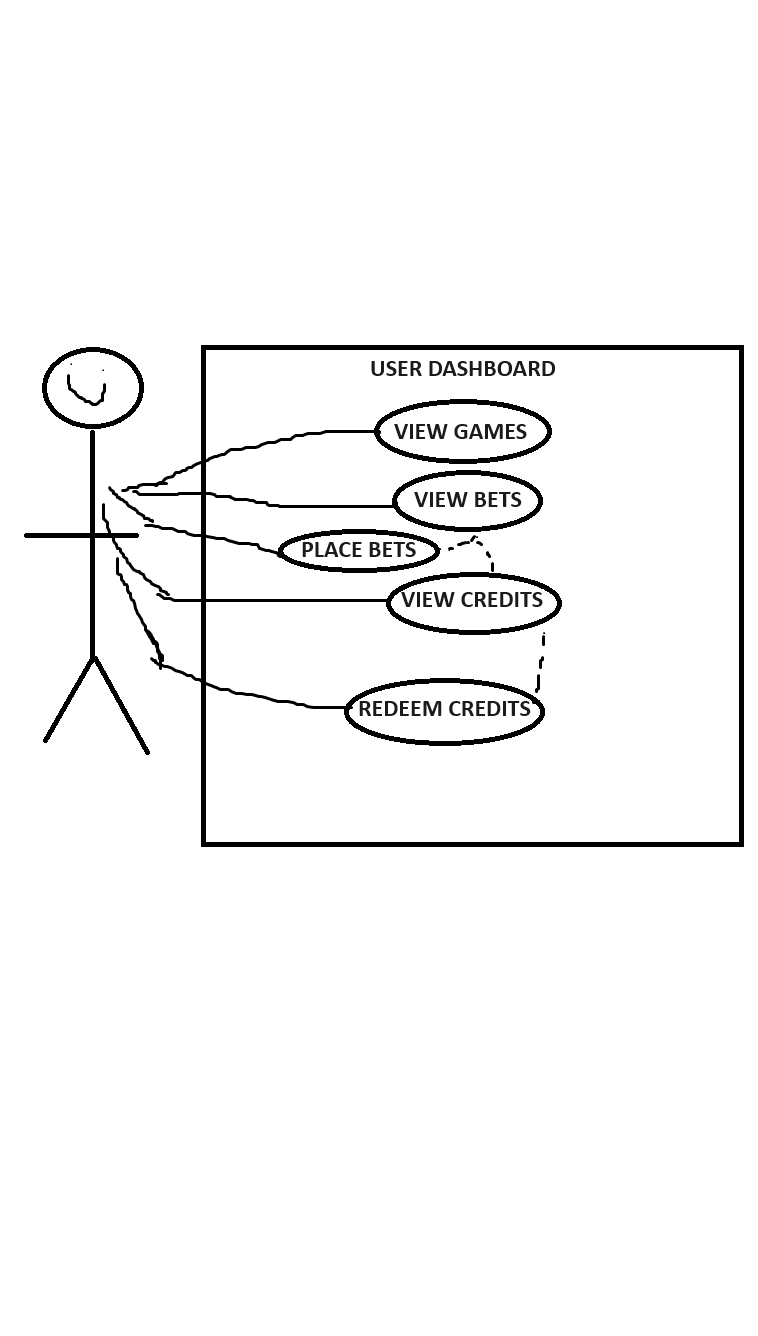
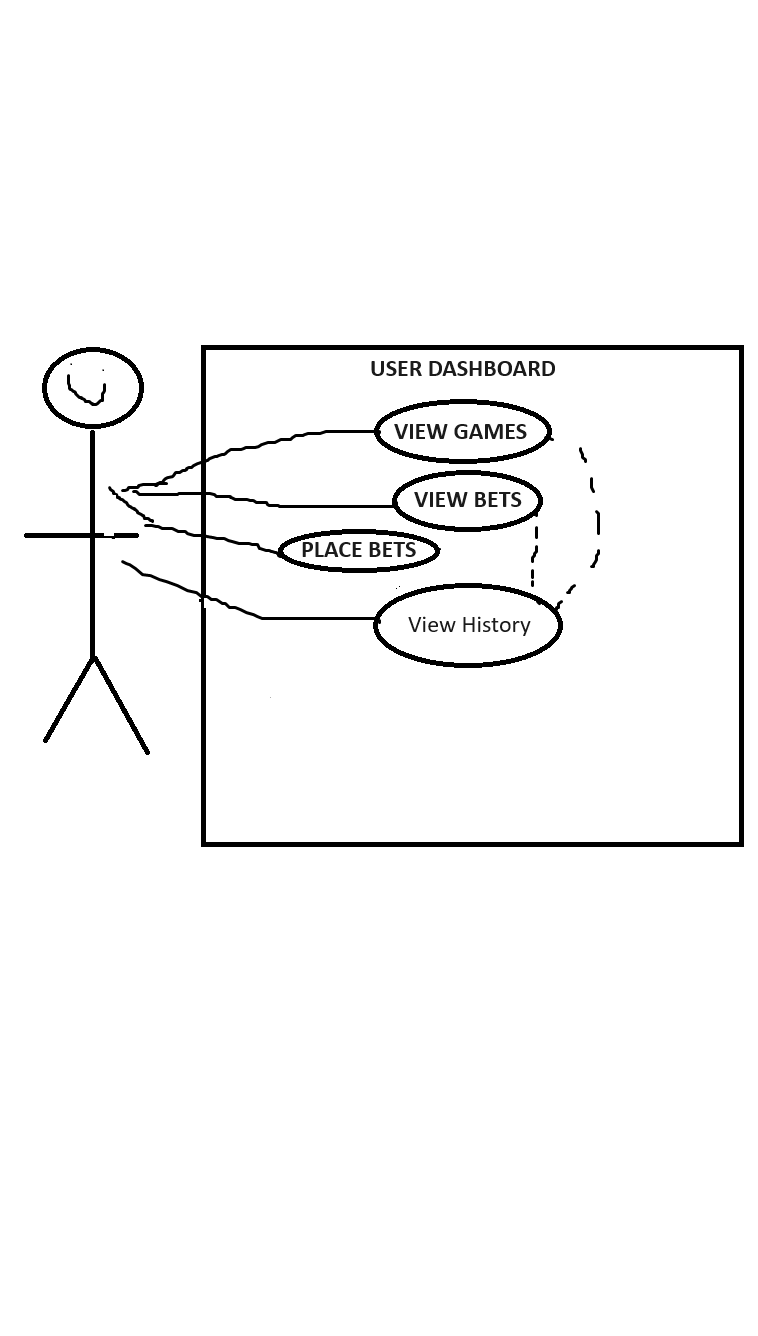
Updated and removed the credits in user dashboard

diff --git a/docs/software_requirements_specification.md b/docs/software_requirements_specification.md
@@ -14,10 +14,8 @@ The purpose of this document is to track all our functional and non-functional r
 > 2.1 The application shall have a page displaying all possible football games to bet on for the upcoming week in a table format.
 <br> 2.2 Users shall be able to place bets on football games.
 <br> 2.3 Users shall receive a confirmation via the dashboard of their bet with details of the selected football game(s).
-<br> 2.4 The application shall display current credit balance.
-<br> 2.5 The application shall display an interactive list of active and previous bets for the user on the home page.
-<br> 2.6 The users bets shall be allowed to be sorted by date or game.
-<br> 2.7 The user shall get 100 free credits every 24 hours.
+<br> 2.4 The application shall display an interactive list of active and previous bets for the user on the home page.
+<br> 2.5 The users bets shall be allowed to be sorted by date or game.
 
 # Non-Functional Requirements
 **1. Security**
